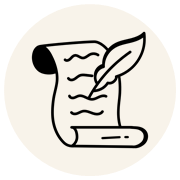
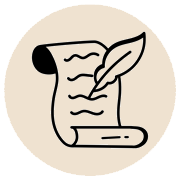
Refactor build script and enhance poem rendering
- Removed inline argument parsing for flags in `readArgValue`.
- Introduced a function to handle transient cleanup errors during directory removal.
- Added a new function `yyyyMmDdInTimeZone` to format dates based on time zones.
- Updated `renderPoemShell` to utilize precomputed HTML for author metadata and poem content.
- Enhanced `renderArchive` and `renderHome` to filter poems based on a fallback date.
- Introduced `preparePoems` to preprocess poem data for rendering.
- Improved archive rendering with new grouping and rendering functions.
- Updated HTML templates to display fallback content when JavaScript is disabled.
- Added new branding icon for iOS.

diff --git a/assets/app.js b/assets/app.js
@@ -27,10 +27,12 @@ function defaultAsOfFromDom() {
   return /^\d{4}-\d{2}-\d{2}$/.test(value) ? value : "";
 }
 
-function effectiveDateFromQueryOrNow() {
-  const queryDate = new URLSearchParams(window.location.search).get("as_of") || "";
-  if (/^\d{4}-\d{2}-\d{2}$/.test(queryDate)) {
-    return queryDate;
+function effectiveDateFromQueryOrNow({ allowQueryOverride = true } = {}) {
+  if (allowQueryOverride) {
+    const queryDate = new URLSearchParams(window.location.search).get("as_of") || "";
+    if (/^\d{4}-\d{2}-\d{2}$/.test(queryDate)) {
+      return queryDate;
+    }
   }
   const defaultAsOf = defaultAsOfFromDom();
   if (defaultAsOf) {
@@ -110,8 +112,8 @@ function initPoemAccessGuard() {
     return;
   }
 
-  const effectiveDate = effectiveDateFromQueryOrNow();
-  if (poemDate <= effectiveDate) {
+  const todayLocal = localDateString();
+  if (poemDate <= todayLocal) {
     return;
   }
 
@@ -130,10 +132,27 @@ function initPoemAccessGuard() {
 }
 
 function selectPoemForDate(poems, dateStr) {
-  const visible = poems.filter((poem) => poem.date <= dateStr);
-  const exact = visible.find((poem) => poem.date === dateStr) || null;
-  const current = exact || visible[visible.length - 1] || null;
-  return { visible, current };
+  let visibleCount = 0;
+  let current = null;
+
+  for (let i = 0; i < poems.length; i += 1) {
+    const poem = poems[i];
+    if (poem.date <= dateStr) {
+      visibleCount = i + 1;
+      if (poem.date === dateStr) {
+        current = poem;
+      }
+    }
+  }
+
+  if (!current && visibleCount > 0) {
+    current = poems[visibleCount - 1];
+  }
+
+  return {
+    visible: poems.slice(0, visibleCount),
+    current
+  };
 }
 
 function groupByYearMonth(poems) {
@@ -221,7 +240,7 @@ function renderArchive(poems, effectiveDate) {
 }
 
 async function loadPoemsData() {
-  const response = await fetch(poemsDataPath(), { cache: "no-store" });
+  const response = await fetch(poemsDataPath());
   if (!response.ok) {
     throw new Error(`Could not load poems data (${response.status}).`);
   }

diff --git a/templates/about.html b/templates/about.html
@@ -32,7 +32,11 @@
     <h1>About</h1>
     <article class="content-block">
       <p>The proprietors of this project are the poets, but it is maintained by <a href="https://alog.lu" target="_blank" rel="noreferrer">Abdullah Alo&#287;lu</a>, whose appreciation of the art came embarrassingly late.</p>
-      <p>The daily poem resets at midnight in your local time. The next day&rsquo;s poem will be available in <strong id="next-poem-countdown">--</strong>.</p>
+      <p id="countdown-line">The daily poem resets at midnight in your local time. The next day&rsquo;s poem will be available in <strong id="next-poem-countdown">--</strong>.</p>
+      <noscript>
+        <style>#countdown-line { display: none; }</style>
+        <p>The daily poem resets at midnight in your local time. The next day&rsquo;s poem will be available in, well, who knows. You have JavaScript disabled.</p>
+      </noscript>
       <p>You can browse the archive <a href="../archive/">here</a>. If you want to send poems, feel free to <a href="mailto:poems@alog.lu">get in touch</a>.</p>
       <p>You can find the project&rsquo;s source files on <a href="https://github.com/aloglu/serein" target="_blank" rel="noreferrer">GitHub</a>.</p>
     </article>

diff --git a/templates/index.html b/templates/index.html
@@ -29,15 +29,11 @@
 </head>
 <body>
   <main data-default-as-of="{{DEFAULT_AS_OF}}">
-    <div id="home-view">
-      <h1 id="home-title">A Poem Per Day</h1>
-      <p id="home-meta" class="meta"></p>
-      <article id="home-content" class="content-block">
-        <p class="empty">Loading poem...</p>
-      </article>
-    </div>
+    <h1 id="home-title">{{FALLBACK_TITLE}}</h1>
+    <p id="home-meta" class="meta">{{FALLBACK_META}}</p>
+    <article id="home-content" class="content-block">{{FALLBACK_POEM_HTML}}</article>
     <noscript>
-      <p class="empty">Please enable JavaScript to view the daily poem.</p>
+      <p class="meta">You are viewing the static version.</p>
     </noscript>
   </main>
 

diff --git a/templates/archive.html b/templates/archive.html
@@ -31,10 +31,10 @@
   <main data-default-as-of="{{DEFAULT_AS_OF}}">
     <h1>Archive</h1>
     <div class="content-block">
-      <div id="archive-tree" class="archive-tree"><p class="empty">Loading archive...</p></div>
+      <div id="archive-tree" class="archive-tree">{{FALLBACK_ARCHIVE_ROWS}}</div>
     </div>
     <noscript>
-      <p class="empty">Please enable JavaScript to browse the archive.</p>
+      <p class="meta">You are viewing the static version.</p>
     </noscript>
   </main>
   {{FOOTER}}

diff --git a/assets/styles.css b/assets/styles.css
@@ -82,8 +82,7 @@ main {
   padding: 6rem 0 3rem;
 }
 
-main > h1,
-#home-view > h1 {
+main > h1 {
   margin: 0;
   font-size: 2.2rem;
   line-height: 1.15;
@@ -372,8 +371,7 @@ main > .empty:only-child {
 .hand-highlight.hl-yellow { background-image: url("./highlights/mimosa.svg"); }
 
 @media (max-width: 720px) {
-  main > h1,
-  #home-view > h1 {
+  main > h1 {
     font-size: 2.3rem;
   }
 

diff --git a/README.md b/README.md
@@ -2,7 +2,7 @@
 
 Serein is the project behind [A Poem Per Day](https://apoemperday.com). As the name suggests, it publishes a poem per day and keeps an archive of past poems.
 
-If you’d like your favorite poem to be published, please do [get in touch](mailto:poems@alog.lu).
+If you'd like your favorite poem to be published, please do [get in touch](mailto:poems@alog.lu).
 
 # License
 
